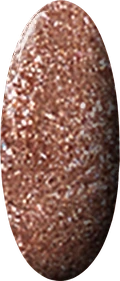
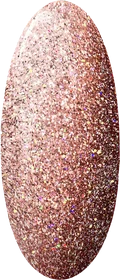
Bring back the original Shop by color swatches
Restores the 14 oval images from before the reference-sheet recolour
(also used by the home page colour picker). Image URLs move to ?v=3 so
browsers drop the cached recoloured ovals.

Claude-Session: https://claude.ai/code/session_01FzUXHFdxJXvDWYEUa5369p

diff --git a/js/home.js b/js/home.js
@@ -80,11 +80,11 @@
   // ---------- colour picker (mobile "Scegli il tuo Mood", desktop "Shop by color") ----------
   const moodRow = $('#mood-row');
   moodRow.innerHTML = MOODS.map(([label, f]) => `<button class="mood-item" data-name="${label}" aria-pressed="false">
-    <img src="img/mood-${f}.webp?v=2" alt="" width="53" height="125" loading="lazy" decoding="async"><span>${label}</span></button>`).join('');
+    <img src="img/mood-${f}.webp?v=3" alt="" width="53" height="125" loading="lazy" decoding="async"><span>${label}</span></button>`).join('');
   attachProgress(moodRow);
   const colorRow = $('#color-row');
   colorRow.innerHTML = MOODS.map(([label, f]) => `<a class="color-item" href="catalogo.html?colore=${encodeURIComponent(label)}" aria-label="${label}">
-    <img src="img/mood-${f}.webp?v=2" alt="" width="50" height="122" loading="lazy" decoding="async"><span>color</span></a>`).join('');
+    <img src="img/mood-${f}.webp?v=3" alt="" width="50" height="122" loading="lazy" decoding="async"><span>color</span></a>`).join('');
   function pickMood(item, { scroll = false } = {}) {
     $$('.mood-item').forEach(m => m.setAttribute('aria-pressed', m === item));
     toast(`Colore: ${item.dataset.name}`);

diff --git a/js/catalog.js b/js/catalog.js
@@ -184,7 +184,7 @@
   // ---------- "Shop by color" (replaces the banner on ?cat=semipermanente): a swatch filters the grid in place, tapping it again clears ----------
   const shopRow = $('#cat-shop-row');
   shopRow.innerHTML = MOODS.map(([label, f]) => `<button type="button" class="cs-item" data-mood="${label}" aria-pressed="false">
-    <img src="img/mood-${f}.webp?v=2" alt="" width="51" height="122" decoding="async"><span>${label}</span></button>`).join('');
+    <img src="img/mood-${f}.webp?v=3" alt="" width="51" height="122" decoding="async"><span>${label}</span></button>`).join('');
   shopRow.addEventListener('click', e => {
     const m = e.target.closest('[data-mood]'); if (!m) return;
     if (m.getAttribute('aria-pressed') === 'true') { st.mood = null; st.colors.clear(); }

diff --git a/catalogo.html b/catalogo.html
@@ -207,6 +207,6 @@
 <noscript><p style="padding:24px;text-align:center;font:600 15px system-ui">Per vedere questo sito abilita JavaScript.</p></noscript>
 <script src="js/site.js?v=0c7bcff6"></script>
 <script src="js/product.js?v=82b8188a"></script>
-<script src="js/catalog.js?v=733310a5"></script>
+<script src="js/catalog.js?v=9f97e744"></script>
 </body>
 </html>

diff --git a/index.html b/index.html
@@ -264,6 +264,6 @@
 </div>
 <noscript><p style="padding:24px;text-align:center;font:600 15px system-ui">Per vedere questo sito abilita JavaScript.</p></noscript>
 <script src="js/site.js?v=0c7bcff6"></script>
-<script src="js/home.js?v=a7d570e9"></script>
+<script src="js/home.js?v=503d67fd"></script>
 </body>
 </html>
